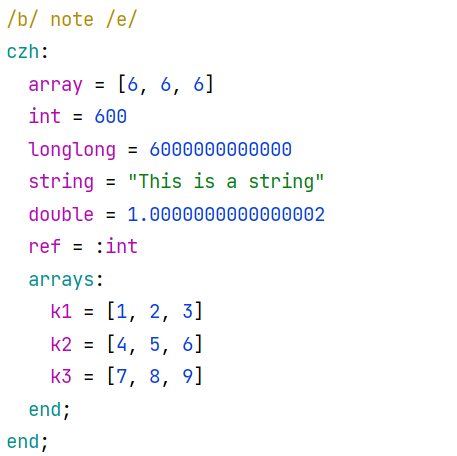
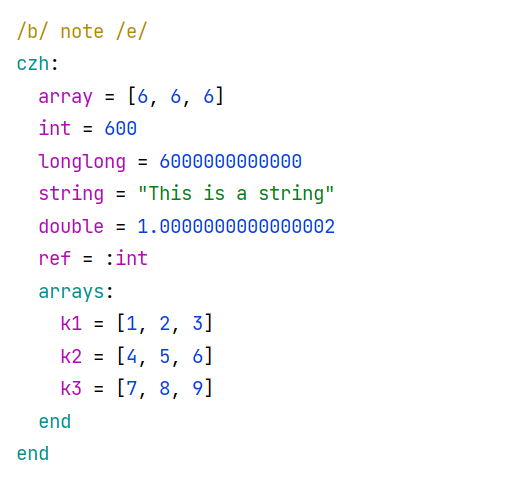
update

diff --git a/examples/cpp/example.cpp b/examples/cpp/example.cpp
@@ -58,7 +58,7 @@ void test()
   auto example2 = *e2.parse();
   czh::Czh e3("czh.czh", czh::Czh::file);
   auto example3 = *e3.parse();
-  std::cout << "\n" << example3.to_string(czh::node::Node::color) << std::endl;
+  //std::cout << "\n" << example3.to_string(czh::node::Node::color) << std::endl;
 }
 int main()
 {

diff --git a/src/node.h b/src/node.h
@@ -374,7 +374,7 @@ namespace czh::node
       if (is_node && name != "/")
         ret += std::string(i * 2, ' ') +
             colorify("end", with_color, Type::BLOCK_END)
-            + ";\n";
+            + "\n";
       return ret;
     }
   
